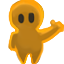
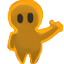
compas placed at position on the screen relative to where objective is and disappears when nearby

Changed region(s): [[0.0938, 0.0, 1.0, 1.0], [0.0938, 0.0, 0.3438, 0.5312], [0.25, 0.1875, 0.5625, 0.375]]

diff --git a/H2G2/src/com/baptemedujeu/minild42/H2G2Game.java b/H2G2/src/com/baptemedujeu/minild42/H2G2Game.java
@@ -40,7 +40,6 @@ public class H2G2Game implements ApplicationListener
 		// ... mothership arrow
 		TextureRegion region = new TextureRegion(gui_texture, 0, 0, 128, 256);
 		mothership_arrow = new Sprite(region);
-		mothership_arrow.setPosition(90.0f, 30.0f);
 		mothership_arrow.setSize(100.0f, 100.0f*mothership_arrow.getHeight() / mothership_arrow.getWidth());
 		mothership_arrow.setOrigin(mothership_arrow.getWidth() / 2, mothership_arrow.getHeight() / 2);
 
@@ -73,10 +72,24 @@ public class H2G2Game implements ApplicationListener
 		world.end();
 		
 		// gui
+		
+		// ... compass
 		toMothership.set(level.mother.getPosition()).sub(camera.position.x, camera.position.y);
-		mothership_arrow.setRotation(toMothership.angle() - 90);
+		boolean drawCompass = (toMothership.len2() > 48);
+		if(drawCompass)
+		{
+			// ... ... position
+			toMothership.nor().scl(Gdx.graphics.getWidth()*0.45f, Gdx.graphics.getHeight()*0.45f);
+			mothership_arrow.setPosition(
+					Gdx.graphics.getWidth()/2 - mothership_arrow.getWidth()/2 + toMothership.x,
+					Gdx.graphics.getHeight()/2  - mothership_arrow.getHeight()/2 + toMothership.y);
+			// ... ... angle
+			mothership_arrow.setRotation(toMothership.angle() - 90);
+		}
 		gui.begin();
-			mothership_arrow.draw(gui);
+			// draw the compass showing where the objective is
+			if(drawCompass)
+				mothership_arrow.draw(gui);
 		gui.end();
 		
 	}
